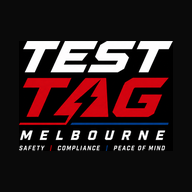
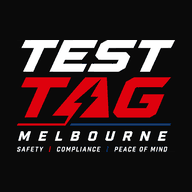
Add files via upload

Changed region(s): [[0.0938, 0.1875, 0.9062, 0.8125], [0.3125, 0.5312, 0.3438, 0.5625]]

diff --git a/index.html b/index.html
@@ -36,7 +36,8 @@
   }
   .form { padding: 16px; }
   .brand { margin-bottom: 16px; }
-  .brandLogo { display: block; width: 100%; max-width: 210px; height: auto; }
+  .brandLogo { display: block; width: 100%; max-width: 340px; height: auto;
+    margin: -6px -6px 0; }
   .brandName {
     font-size: 17px; font-weight: 700; color: #fff; letter-spacing: 0.03em;
     line-height: 1.15;
@@ -216,66 +217,138 @@
   body.printing .container { display: none; }
   body.printing #printRoot { display: block; }
 
-  .rpt-page { padding: 10mm 0; font-size: 9pt; color: #18181b; line-height: 1.45; }
+  .rpt-page {
+    padding: 0; font-size: 9pt; color: #1a1a1c; line-height: 1.5;
+    -webkit-print-color-adjust: exact; print-color-adjust: exact;
+  }
   .rpt-page + .rpt-page { page-break-before: always; }
-  .rpt-brand { display: flex; justify-content: space-between; align-items: flex-start;
-    border-bottom: 0.6pt solid #d4d4d8; padding-bottom: 4mm; margin-bottom: 8mm; }
-  .rpt-co { font-size: 13pt; font-weight: 700; letter-spacing: 0.02em; }
-  .rpt-sub { font-size: 7.5pt; color: #71717a; margin-top: 1mm; }
-  .rpt-contact { font-size: 7.5pt; color: #71717a; text-align: right; line-height: 1.5; }
-  .rpt-h1 { font-size: 15pt; margin: 0 0 3mm; page-break-after: avoid; }
-  .rpt-h2 { font-size: 9pt; margin: 6mm 0 2mm; page-break-after: avoid;
-    break-after: avoid; }
-  .rpt-h2 em { font-style: normal; font-weight: 400; color: #71717a; font-size: 7.5pt;
-    margin-left: 3mm; }
-  .rpt-meta { display: flex; gap: 6mm; margin-bottom: 6mm; }
-  .rpt-meta > div { flex: 1; font-size: 8.5pt; }
-  .rpt-meta span { display: block; font-size: 6.5pt; color: #71717a; letter-spacing: 0.05em; }
-  .rpt-page p { margin: 0 0 3mm; }
-  .rpt-note { font-size: 7.5pt; color: #71717a; margin-top: 6mm; }
+
+  /* letterhead */
+  .rpt-band {
+    display: flex; justify-content: space-between; align-items: flex-end;
+    padding-bottom: 3.5mm; margin-bottom: 0;
+  }
+  .rpt-band img { width: 74mm; height: auto; display: block; }
+  .rpt-band .contact {
+    font-size: 7.2pt; line-height: 1.7; color: #52525b; text-align: right;
+    white-space: nowrap; padding-bottom: 0.5mm;
+  }
+  .rpt-band .contact b { color: #0a0a0a; font-weight: 700; font-size: 8pt; }
+  .rpt-accent {
+    height: 1.1mm; margin: 0 0 7mm;
+    background: linear-gradient(to right, #D2030F 0 62%, #003986 62% 100%);
+    -webkit-print-color-adjust: exact; print-color-adjust: exact;
+  }
+
+  .rpt-h1 {
+    font-size: 17pt; margin: 0 0 4mm; letter-spacing: -0.01em;
+    page-break-after: avoid;
+  }
+  .rpt-h2 {
+    font-size: 8pt; margin: 7mm 0 2mm; text-transform: uppercase;
+    letter-spacing: 0.09em; color: #0a0a0a; page-break-after: avoid; break-after: avoid;
+  }
+  .rpt-h2 em {
+    font-style: normal; font-weight: 400; color: #8a8a93; font-size: 7.2pt;
+    letter-spacing: 0.02em; margin-left: 3mm; text-transform: none;
+  }
+
+  /* client / job / summary strip */
+  .rpt-meta { display: flex; gap: 0; margin-bottom: 7mm; border: 0.5pt solid #dcdce0; }
+  .rpt-meta > div {
+    flex: 1; font-size: 8.5pt; padding: 3mm 4mm;
+    border-left: 0.5pt solid #dcdce0;
+  }
+  .rpt-meta > div:first-child { border-left: none; }
+  .rpt-meta span {
+    display: block; font-size: 6.2pt; color: #8a8a93; letter-spacing: 0.1em;
+    text-transform: uppercase; margin-bottom: 1.2mm;
+  }
+  .rpt-page p { margin: 0 0 3.5mm; }
+  .rpt-note {
+    font-size: 7pt; color: #8a8a93; margin-top: 7mm; padding-top: 3mm;
+    border-top: 0.5pt solid #dcdce0; line-height: 1.6;
+  }
+
+  /* headline counts */
+  .rpt-tiles { display: flex; gap: 3mm; margin-bottom: 6mm; }
+  .rpt-tile {
+    flex: 1; border: 0.5pt solid #dcdce0; padding: 4mm; text-align: center;
+  }
+  .rpt-tile b { display: block; font-size: 21pt; line-height: 1.1; }
+  .rpt-tile span {
+    display: block; font-size: 6.2pt; letter-spacing: 0.1em; text-transform: uppercase;
+    color: #8a8a93; margin-top: 1.5mm;
+  }
+  .rpt-tile.pass b { color: #15803d; }
+  .rpt-tile.fail b { color: #b91c1c; }
 
   .rpt-kv { width: 100%; border-collapse: collapse; }
-  .rpt-kv td { border-bottom: 0.4pt solid #d4d4d8; padding: 2.2mm 0; font-size: 8.5pt;
-    vertical-align: middle; }
-  .rpt-num { text-align: right; width: 20mm; white-space: nowrap; }
+  .rpt-kv td {
+    border-bottom: 0.4pt solid #e7e7ea; padding: 2.6mm 0; font-size: 8.5pt;
+    vertical-align: middle;
+  }
+  .rpt-kv tr:first-child td { border-top: 0.4pt solid #e7e7ea; }
+  .rpt-num { text-align: right; width: 20mm; white-space: nowrap; font-weight: 600; }
 
   .rpt-tbl { width: 100%; border-collapse: collapse; }
-  .rpt-tbl th { font-size: 6.5pt; color: #71717a; text-align: left; font-weight: 400;
-    letter-spacing: 0.05em; border-bottom: 0.5pt solid #18181b; padding: 1.5mm 2mm 1.5mm 0; }
-  .rpt-tbl td { font-size: 7.5pt; padding: 1.5mm 2mm 1.5mm 0;
-    border-bottom: 0.3pt solid #f0f0f1; vertical-align: middle; }
+  .rpt-tbl th {
+    font-size: 6.2pt; color: #52525b; text-align: left; font-weight: 600;
+    letter-spacing: 0.1em; text-transform: uppercase;
+    background-color: #f2f2f4; padding: 2mm 2.5mm;
+    -webkit-print-color-adjust: exact; print-color-adjust: exact;
+  }
+  .rpt-tbl td {
+    font-size: 7.6pt; padding: 2mm 2.5mm; border-bottom: 0.4pt solid #ececef;
+    vertical-align: middle;
+  }
   .rpt-tbl tr { page-break-inside: avoid; }
-  .rpt-r { text-align: right; padding-right: 0 !important; }
-  .rpt-mono { font-family: ui-monospace, Menlo, monospace; font-size: 7pt; }
+  .rpt-r { text-align: right; }
+  .rpt-mono { font-family: ui-monospace, Menlo, monospace; font-size: 7.2pt; letter-spacing: -0.02em; }
   .rpt-pass { color: #15803d; font-weight: 700; }
   .rpt-fail { color: #b91c1c; font-weight: 700; }
 
-  .rpt-item { page-break-inside: avoid; margin-bottom: 7mm; }
-  .rpt-itemhead { display: flex; align-items: baseline; gap: 3mm; font-size: 9pt;
-    border-bottom: 0.5pt solid #18181b; padding-bottom: 1.5mm; }
+  /* failed item blocks */
+  .rpt-item {
+    page-break-inside: avoid; margin-bottom: 6mm; border: 0.5pt solid #dcdce0;
+    border-left: 1.4mm solid #b91c1c;
+  }
+  .rpt-itemhead {
+    display: flex; align-items: baseline; gap: 3mm; font-size: 9.5pt;
+    padding: 3mm 4mm; background-color: #fafafb; border-bottom: 0.5pt solid #dcdce0;
+    -webkit-print-color-adjust: exact; print-color-adjust: exact;
+  }
   .rpt-itemhead .rpt-r { margin-left: auto; }
-  .rpt-cols { display: flex; gap: 8mm; margin-top: 2mm; }
+  .rpt-cols { display: flex; gap: 6mm; padding: 3mm 4mm 1mm; }
   .rpt-insp { width: 50%; }
   .rpt-detail { width: 50%; }
-  .rpt-dt { margin-bottom: 3mm; font-size: 7.5pt; }
-  .rpt-dt span { display: block; font-size: 6.5pt; color: #71717a; letter-spacing: 0.05em; }
-  .rpt-photos { display: flex; gap: 3mm; flex-wrap: wrap; margin-top: 1mm; }
-  .rpt-photo { width: 42mm; border: 0.4pt solid #d4d4d8; }
+  .rpt-dt { margin-bottom: 3mm; font-size: 7.6pt; }
+  .rpt-dt span {
+    display: block; font-size: 6.2pt; color: #8a8a93; letter-spacing: 0.1em;
+    text-transform: uppercase; margin-bottom: 0.8mm;
+  }
+  .rpt-photos { display: flex; gap: 3mm; flex-wrap: wrap; padding: 0 4mm 4mm; }
+  .rpt-photo { width: 44mm; border: 0.4pt solid #dcdce0; }
+  .rpt-photolab { padding: 0 4mm; }
 
   .rpt-sig { width: 100%; border-collapse: collapse; margin-top: 10mm; }
-  .rpt-sig td { border-bottom: 0.5pt solid #18181b; height: 14mm; vertical-align: top;
-    font-size: 9pt; padding-right: 6mm; width: 33%; }
-  .rpt-sig span { display: block; font-size: 6.5pt; color: #71717a; letter-spacing: 0.05em;
-    margin-bottom: 1mm; }
-
-  @media screen {
-    body.printing { background-color: #fff; }
-    #printRoot .rpt-page { padding: 6mm 12px 24px; }
+  .rpt-sig td {
+    border-bottom: 0.6pt solid #0a0a0a; height: 15mm; vertical-align: top;
+    font-size: 9pt; padding-right: 6mm; width: 33%;
+  }
+  .rpt-sig span {
+    display: block; font-size: 6.2pt; color: #8a8a93; letter-spacing: 0.1em;
+    text-transform: uppercase; margin-bottom: 1.2mm;
   }
 
   @page { size: A4; margin: 14mm; }
+  /* A report is a document: keep it light even when the app is in dark mode. */
+  html[data-theme="dark"] body.printing { background-color: #fff; color: #1a1a1c; }
+  html[data-theme="dark"] #printRoot { background-color: #fff; color: #1a1a1c; }
+
   @media print {
-    body { background: #fff; }
+    body,
+    html[data-theme="dark"] body { background: #fff !important; color: #1a1a1c !important; }
     .rpt-page { padding: 0; }
     .rpt-bar { display: none !important; }
   }
@@ -426,7 +499,7 @@
 
   <div class="header">
     <div class="brand">
-      <img class="brandLogo" src="./logo.png" alt="Test Tag Melbourne">
+      <img class="brandLogo" src="./logo-letterhead-dark.svg" alt="Test Tag Melbourne">
     </div>
     <div class="stats">
       <div class="stat"><span class="statNumber" id="countTotal">0</span><span class="statLabel">Tested</span></div>
@@ -457,9 +530,6 @@
 
     <label class="label" for="calibration">Instrument calibration</label>
     <input class="field" type="text" id="calibration" autocomplete="off">
-
-    <label class="label" for="competency">Competency (optional)</label>
-    <input class="field" type="text" id="competency" autocomplete="off">
 
     <button class="toggleButton" id="newJobBtn">Start new job</button>
   </div>
@@ -632,9 +702,8 @@
     model: '',
     serial: '',
     itemTypes: {},
-    competency: '',
     theme: 'system',
-    instrument: 'Aegis Patrol Pro CZ5001 portable appliance tester',
+    instrument: 'Aegis Patrol Pro CZ5001',
     calibration: 'Jul 2026'
   };
 
@@ -702,7 +771,6 @@
     storageNote: document.getElementById('storageNote'),
     instrument: document.getElementById('instrument'),
     calibration: document.getElementById('calibration'),
-    competency: document.getElementById('competency'),
     reportsCard: document.getElementById('reportsCard')
   };
 
@@ -767,9 +835,11 @@
       if (typeof data.technician === 'string') state.technician = data.technician;
       state.client = data.client || '';
       state.jobRef = data.jobRef || '';
-      if (typeof data.competency === 'string') state.competency = data.competency;
       if (data.theme) state.theme = data.theme;
-      if (data.instrument) state.instrument = data.instrument;
+      if (data.instrument) {
+        // fold the old verbose default forward, but keep anything hand-edited
+        state.instrument = (data.instrument === 'Aegis Patrol Pro CZ5001 portable appliance tester') ? 'Aegis Patrol Pro CZ5001' : data.instrument;
+      }
       if (data.calibration) state.calibration = data.calibration;
     } catch (e) {
       console.error('Load failed', e);
@@ -1203,7 +1273,6 @@
     el.serial.value = state.serial;
     el.instrument.value = state.instrument;
     el.calibration.value = state.calibration;
-    el.competency.value = state.competency;
     var a = [state.make, state.model].filter(Boolean).join(' ');
     el.assetSummary.textContent = a ? '\u2014 ' + a : '';
   }
@@ -1516,12 +1585,13 @@
   function docHead(title, ctx) {
     var fails = state.tests.filter(function (t) { return t.result === 'fail'; }).length;
     return '' +
-      '<div class="rpt-brand">' +
-        '<div><div class="rpt-co">' + esc(COMPANY.name.toUpperCase()) + '</div>' +
-        '<div class="rpt-sub">Safety &#183; Compliance &#183; Peace of mind</div></div>' +
-        '<div class="rpt-contact">' + esc(COMPANY.phone) + '<br>' + esc(COMPANY.web) +
-          '<br>' + esc(COMPANY.address) + '<br>ABN ' + esc(COMPANY.abn) + '</div>' +
+      '<div class="rpt-band">' +
+        '<img src="./logo-letterhead.svg" alt="' + esc(COMPANY.name) + '">' +
+        '<div class="contact"><b>' + esc(COMPANY.phone) + '</b><br>' +
+          esc(COMPANY.web) + '<br>' + esc(COMPANY.address) +
+          '<br>ABN ' + esc(COMPANY.abn) + '</div>' +
       '</div>' +
+      '<div class="rpt-accent"></div>' +
       '<h1 class="rpt-h1">' + esc(title) + '</h1>' +
       '<div class="rpt-meta">' +
         '<div><span>CLIENT</span>' + (esc(ctx.clients[0]) || '&mdash;') +
@@ -1534,13 +1604,9 @@
   }
 
   function instrumentNote() {
-    var comp = (state.competency || '').trim();
     return '<p class="rpt-note">Testing carried out with ' + esc(state.instrument) +
       '. Instrument calibration: ' + esc(state.calibration) +
-      '. Tests performed to the requirements of ' + STANDARD_LONG + '.' +
-      (comp ? ' Testing performed by a competent person as defined in ' + STANDARD +
-              ': ' + esc(comp) + '.' : '') +
-      '</p>';
+      '. Tests performed to the requirements of ' + STANDARD_LONG + '.</p>';
   }
 
   function certificateHTML(ctx) {
@@ -1557,6 +1623,12 @@
     return '<section class="rpt-page">' + docHead('Certificate of Conformance', ctx) +
       '<p>' + esc(where) + ' presented the following equipment for in-service electrical ' +
       'safety inspection and testing during the period <b>' + esc(periodText(ctx)) + '</b>.</p>' +
+
+      '<div class="rpt-tiles">' +
+        '<div class="rpt-tile"><b>' + total + '</b><span>Items tested</span></div>' +
+        '<div class="rpt-tile pass"><b>' + (total - fails) + '</b><span>Passed</span></div>' +
+        '<div class="rpt-tile fail"><b>' + fails + '</b><span>Failed</span></div>' +
+      '</div>' +
 
       '<h2 class="rpt-h2">Electrical appliances and leads</h2>' +
       rows([
@@ -1666,7 +1738,7 @@
               '</tr></thead><tbody>' + insp + '</tbody></table>' +
               '<div class="rpt-detail">' + detail + '</div>' +
             '</div>' +
-            (photos ? '<div class="rpt-dt"><span>PHOTOGRAPHS</span></div>' +
+            (photos ? '<div class="rpt-dt rpt-photolab"><span>Photographs</span></div>' +
                       '<div class="rpt-photos">' + photos + '</div>' : '') +
           '</div>';
         }).join('');
@@ -2188,7 +2260,6 @@
 
   el.instrument.addEventListener('input', function () { state.instrument = this.value; save(); });
   el.calibration.addEventListener('input', function () { state.calibration = this.value; save(); });
-  el.competency.addEventListener('input', function () { state.competency = this.value; save(); });
 
   document.querySelector('.reportRow').addEventListener('click', function (e) {
     var btn = e.target.closest('[data-report]');

diff --git a/sw.js b/sw.js
@@ -1,7 +1,7 @@
 /* Test Tag Melbourne logger service worker — cache-first so the app opens with no reception.
    Bump CACHE_VERSION whenever you upload a changed index.html. */
 
-const CACHE_VERSION = 'ttm-logger-v22';
+const CACHE_VERSION = 'ttm-logger-v30';
 
 const PRECACHE = [
   './',
@@ -10,7 +10,9 @@ const PRECACHE = [
   './icon-192.png',
   './icon-512.png',
   './apple-touch-icon.png',
-  './logo.png'
+  './logo-letterhead-dark.svg',
+  './logo-letterhead.svg',
+  './logo-stacked-dark.svg'
 ];
 
 self.addEventListener('install', (event) => {

diff --git a/README.md b/README.md
@@ -9,12 +9,14 @@ Test Tag Melbourne · ABN 36 246 545 097 · 13 Slough St, Deer Park VIC 3023 · 
 
 | File | Purpose |
 |---|---|
-| `index.html` | The whole app — logging, reports, exports |
+| `index.html` | The whole app — logging, reports, exports, settings |
 | `manifest.json` | Lets iOS install it as a home screen app |
 | `sw.js` | Service worker; caches the app so it runs with no reception |
+| `logo-letterhead-dark.svg` | App header artwork |
+| `logo-letterhead.svg` | Report letterhead |
+| `logo-stacked-dark.svg` | Stacked lockup, spare |
 | `icon-192.png`, `icon-512.png` | App icons |
 | `apple-touch-icon.png` | iOS home screen icon |
-| `logo.png` | Header artwork (placeholder — dark background only) |
 
 All files sit in the same folder, at the repo root.
 
@@ -53,6 +55,12 @@ print-ready pages. Choose Print, then save as PDF from the iOS share sheet.
 **Export ZIP** — one file containing the CSV register and every photo, named by asset ID.
 CSV alone is also available.
 
+**Settings** — appearance (system, light or dark), restore from a previously exported CSV,
+storage usage with options to clear photos or remembered item names, and an about line.
+
+Importing a CSV skips records already held, so importing the same file twice is safe.
+Photos are not carried in a CSV, so a restore rebuilds records without their photographs.
+
 ## Storage
 
 Data is held in the browser on that one device. Clearing Safari's website data erases it,
@@ -70,14 +78,11 @@ where you type.
 Changing an icon or `logo.png` also needs the `CACHE_VERSION` bump, and iOS caches the
 home screen icon at install — delete the icon and re-add it to pick up new artwork.
 
-## Branding — outstanding
+## Branding
 
-`logo.png` is a placeholder. It is raster (755px wide) on an opaque black background, so:
-
-- it cannot sit on the white report letterhead, which still uses set type
-- it is too small for large-format print such as vehicle signage
-
-Replacing it with a transparent-background or vector version would resolve both.
+Logos are vector SVG, traced from the supplied artwork. The dark letterhead runs in the app
+header; the light letterhead sits on the reports. Icons are PNG, generated from the stacked
+lockup.
 
 ## Scope
 
